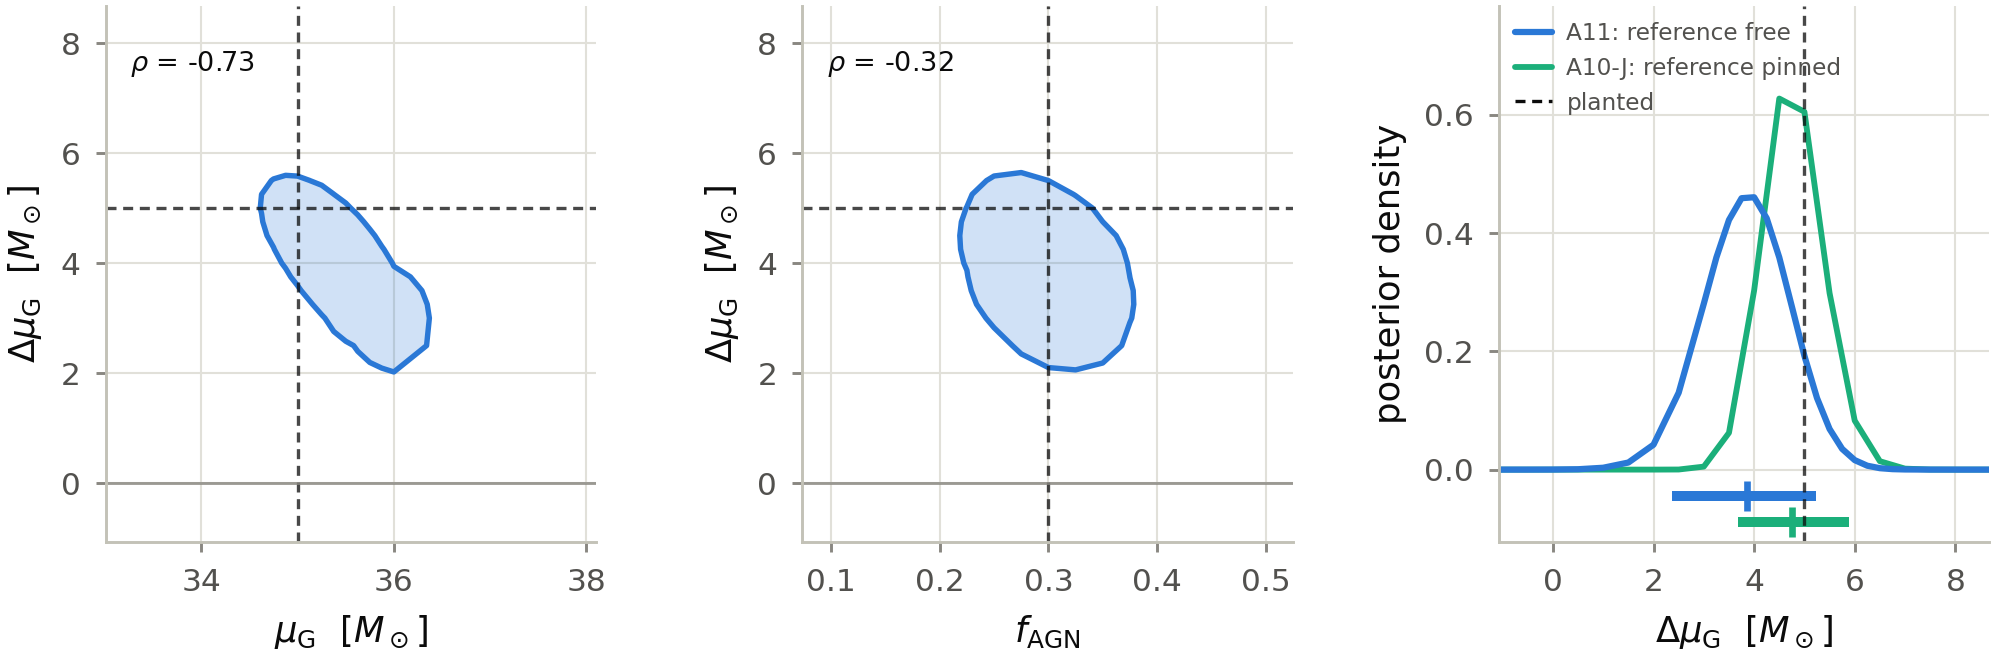
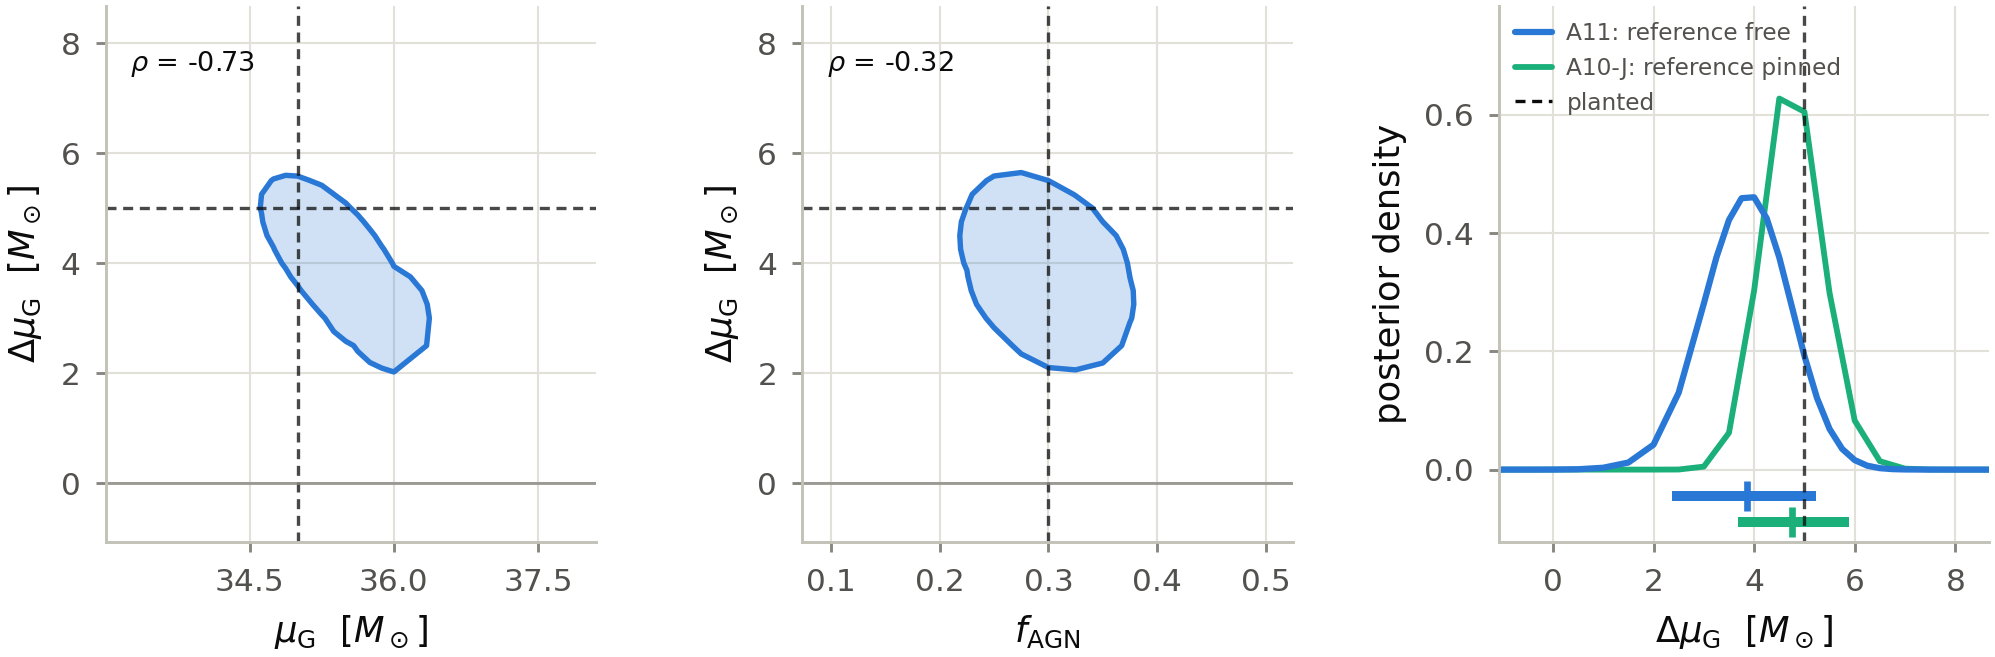
analysis11: free common spin baseline at fixed H0
With the reference spin mean free, the AGN spin offset is 0.126 [0.094, 0.158]
at 90% and zero offset sits at 8.5e-9 of the peak; the reference is
-0.005 +- 0.009. The interval widens 1.2x against Analysis 10 and the pair
trades along rho = -0.64. Both sectors pass the gate before the joint model.

Changed region(s): [[0.2486, 0.8524, 0.3108, 0.9132], [0.1865, 0.8524, 0.2175, 0.9132], [0.0932, 0.8524, 0.1243, 0.9132]]

diff --git a/working/analyses/analysis_11_free_common_population/scripts/make_figures.py b/working/analyses/analysis_11_free_common_population/scripts/make_figures.py
@@ -137,6 +137,9 @@ def fig_sector(arm, mu, dmu, a10_key, a10_marg_key, a10_axis_key):
                        Line2D([], [], color=C10, lw=1.4, label="A10-J: reference pinned"),
                        Line2D([], [], color=fs.TRUTH, lw=0.8, ls=(0, (3, 2)), label="planted")],
               fontsize=5.6, frameon=False, loc="upper left")
+    from matplotlib.ticker import MaxNLocator
+    for a in axs:
+        a.xaxis.set_major_locator(MaxNLocator(5))
     save(fig, f"fig_{arm}")
 
 

diff --git a/working/analyses/analysis_11_free_common_population/scripts/a11_scan.py b/working/analyses/analysis_11_free_common_population/scripts/a11_scan.py
@@ -67,7 +67,8 @@ def _load_axes():
 
 
 def _key(mu, dmu):
-    return f"{float(mu):.10g}|{float(dmu):.10g}"
+    # + 0.0 folds a signed zero (np.round can emit -0.0) onto 0.0
+    return f"{float(mu) + 0.0:.10g}|{float(dmu) + 0.0:.10g}"
 
 
 def _append(path, obj):

diff --git a/working/analyses/analysis_11_free_common_population/REPORT.md b/working/analyses/analysis_11_free_common_population/REPORT.md
@@ -55,4 +55,45 @@ within 2 ULP everywhere.
 
 ## 3. 11B — the reference spin zero point free
 
-Running.
+H0 = 67.74, mass sector at the planted (35, +5); grid over (f, μ_χ, Δμ_χ), 32,375 cells,
+27.2 GPU-h. `results/a11_11B.{h5,json}`, `figs/fig_11B`.
+
+| | median | 68% | 90% | planted |
+|---|---|---|---|---|
+| μ_χ | −0.0054 | [−0.0143, +0.0034] | [−0.0202, +0.0091] | 0 |
+| Δμ_χ | 0.126 | [0.107, 0.145] | [0.094, 0.158] | +0.10 |
+| f_AGN | 0.274 | [0.239, 0.311] | [0.217, 0.335] | 0.30 |
+| μ_χ + Δμ_χ | 0.120 | [0.105, 0.135] | [0.098, 0.145] | 0.10 |
+
+MAP (0.275, −0.005, 0.125). ρ(μ_χ, Δμ_χ) = −0.64, ρ(f, μ_χ) = −0.29, ρ(f, Δμ_χ) = −0.15.
+
+**The environmental spin shift survives a free zero point, and does not trade it away.**
+The density at Δμ_χ = 0 is 8.5 × 10⁻⁹ of the peak. The reference spin mean is pinned
+to ±0.009 by the reference-branch events. The offset is anticorrelated with it
+(ρ = −0.64) for the same reason as in 11A: the AGN-branch events measure the absolute
+AGN spin mean most directly. The zero point comes out 0.005 below 0 and the offset 0.009
+above the Analysis-10 value, so the absolute AGN mean is 0.120. The planted offset is
+inside the 90% interval and 1.4 posterior sd below the median.
+
+**Cost against Analysis 10:** D_Δμ_χ = 1.21 (68%) and 1.24 (90%) against A10-J. On the
+μ_χ = 0 slab of this grid Δμ_χ is 0.119 [0.095, 0.144], indistinguishable from A10-J's
+0.117 [0.093, 0.144]. The f interval is narrower than A10-J's (0.86×) because the mass
+offset is pinned here and free there.
+
+**Domain edge and rejected cells.** The Δμ_χ marginal at the top of the domain (0.20) is
+4.3 × 10⁻⁴ of the peak. It falls by factors of 3–7 per node towards the edge, the edge is
+3.9 posterior sd above the median, and the extrapolated mass beyond it is 4 × 10⁻⁵. It is
+reported, not extended. 245 cells (AGN spin mean ≥ 0.22 at f ≥ 0.325) are
+guard-rejected, and a fill bound puts at most 6 × 10⁻⁶⁸ of the posterior there. The
+μ_χ = 0 slab reproduces A10-J's recorded cells in 258 of 300 cases bitwise, and within
+2 ULP everywhere.
+
+## Gate after 11A and 11B: PASS
+
+Selection support is valid over both explored regions (the only rejections are in the
+AGN-spin-mean ≥ 0.22 corner, bounded at 6 × 10⁻⁶⁸). Both likelihood paths close. μ_G and
+Δμ_G are separately informative (ρ = −0.73, zero offset at 2.3 × 10⁻⁴), and so are μ_χ
+and Δμ_χ (ρ = −0.64, zero offset at 8.5 × 10⁻⁹). No posterior is edge-dominated, and
+neither offset is lost. Neither environmental measurement depended on the pinned
+reference: freeing it widens the offsets by 1.2–1.3× and moves them by about one
+posterior sd.

diff --git a/working/analyses/analysis_11_free_common_population/GATES.md b/working/analyses/analysis_11_free_common_population/GATES.md
@@ -11,8 +11,8 @@ the fact; if a boundary becomes relevant it is extended once and reported.
 | C closure C1–C6 | **PASS** (C1, C2 judged at 1 ULP) | `diagnostics/a11_closure.json`, rita job 1339461. C1: 15/20 cells bitwise against both the live A10 cell and the recorded `a10_arm_J.h5`; the other 5 differ by exactly 1.82e-12 = 1 ULP of logL ≈ 1.6e4 (selection term at f = 0 in four, PE term at f = 0.3 in one). C2: 3/4 bitwise, one at 1 ULP. C3 (Δ = 0 ⇔ shared population) 4/4 bitwise; C4 (f = 0) 8/8 bitwise constant and equal to the shared cell; C5 (f = 1, only μ+Δμ enters) 9/9 bitwise constant; C6 live (logL moves by 136 over the μ_G axis, 161 over μ_χ) |
 | S selection support | **PASS WITH REJECTED CORNER** | live (30 cells): 29 pass; the one rejection is (μ_χ, Δμ_χ) = (+0.1, +0.2) at f = 1 — AGN spin mean 0.30 — N_eff/threshold 0.16 (1.07 at f = 0.3). Mass extremes pass (min 1.27 at AGN mean 49, f = 1). File proxy (`diagnostics/a11_selection_file.json`): every branch point ≥ 3.5 × 5000 except AGN spin mean 0.30 (N_eff 3,894, w_max/Σw 2.1e-3). The local posterior puts the AGN spin mean at ≈ 0.12 ± 0.02; the grids bound the rejected region's mass |
 | 11A | **PASS** | 26,825 cells, 22.5 GPU-h, 0 rejected, all edges ≤ 2e-12; μ_G 35.48 [34.80, 36.30], Δμ_G 3.85 [2.37, 5.23] (90%), f 0.298; ρ(μ_G, Δμ_G) −0.73; density at Δμ_G = 0 is 2.3e-4 of the peak; D_Δμ_G = 1.31 / 1.30 against A10-J; μ_G = 35 slab vs `a10_arm_J.h5` 410/525 bitwise, worst 2 ULP (`results/a11_11A.json`) |
-| 11B | RUNNING | rita array 1339463 (4 chunks), 25 f × 37 μ_χ × 35 Δμ_χ = 32,375 cells ≈ 27.1 GPU-h |
-| G11AB gate after 11A/11B | NOT REACHED | |
+| 11B | **PASS** | 32,375 cells, 27.2 GPU-h; μ_χ −0.0054 [−0.0202, 0.0091], Δμ_χ 0.126 [0.094, 0.158] (90%), f 0.274; ρ(μ_χ, Δμ_χ) −0.64; density at Δμ_χ = 0 is 8.5e-9; D_Δμ_χ = 1.21 / 1.24; 245 rejected cells (AGN spin mean ≥ 0.22, f ≥ 0.325), fill bound 6e-68; Δμ_χ top edge 4.3e-4 of the peak, tail mass beyond 0.20 ≈ 4e-5 (reported, not extended); μ_χ = 0 slab 258/300 bitwise, worst 2 ULP |
+| G11AB gate after 11A/11B | **PASS** | all six conditions (REPORT.md, *Gate after 11A and 11B*) |
 | S1 sampler validation | NOT REACHED | |
 | 11C | NOT REACHED | |
 | fixed-H0 owner gate | NOT REACHED | |
